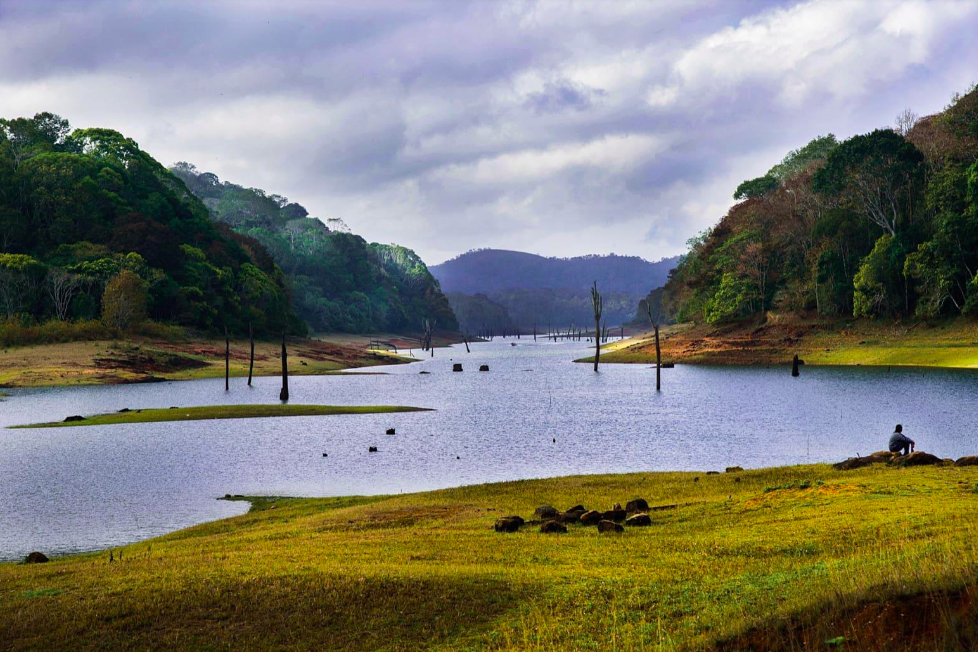
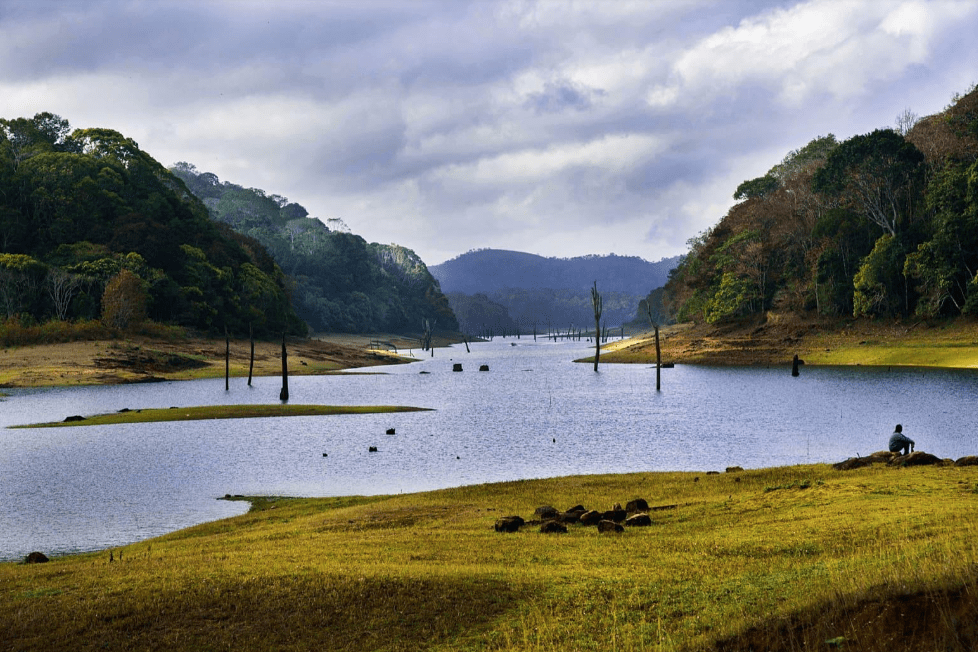
image compression and title change

diff --git a/places.html b/places.html
@@ -6,7 +6,7 @@
   <meta charset="utf-8">
   <meta http-equiv="X-UA-Compatible" content="IE=edge">
   <meta name="viewport" content="width=device-width, initial-scale=1">
-  <title>MACE Conf</title>
+  <title>ICMACE</title>
   
   <!-- PLUGINS CSS STYLE -->
   <!-- Bootstrap -->
@@ -80,7 +80,7 @@
         <div class="row">
             <div class="col-12">
                 <div class="section-title content-block">
-                    <h2>Places <span class="alternate">to Visit</span></h2>
+                    <h2>Places to Visit</h2>
                     <p>Kothamangalam is a wonderful town in the mountains of Kerala, India. Kothamangalam is presently a standout amongst the most essential pioneer focuses of Kerala. </p>
                 </div>
             </div>

diff --git a/organisers.html b/organisers.html
@@ -6,7 +6,7 @@
   <meta charset="utf-8">
   <meta http-equiv="X-UA-Compatible" content="IE=edge">
   <meta name="viewport" content="width=device-width, initial-scale=1">
-  <title>MACE Conf</title>
+  <title>ICMACE</title>
   
   <!-- PLUGINS CSS STYLE -->
   <!-- Bootstrap -->
@@ -116,8 +116,8 @@
 			<div class="col-12">
 			
 				<div class="section-title white">
-					<h3><span class="alternate">Organisers </span>List</h3>
-					<p>Here's the list of those who made this possible.</p>
+					<h3>Organizing Committee</h3>
+			
 				</div>
 			</div>
 		</div>

diff --git a/index.html b/index.html
@@ -6,7 +6,7 @@
   <meta charset="utf-8">
   <meta http-equiv="X-UA-Compatible" content="IE=edge">
   <meta name="viewport" content="width=device-width, initial-scale=1">
-  <title>MACE Conf</title>
+  <title>ICMACE</title>
   
   <!-- PLUGINS CSS STYLE -->
   <!-- Bootstrap -->
